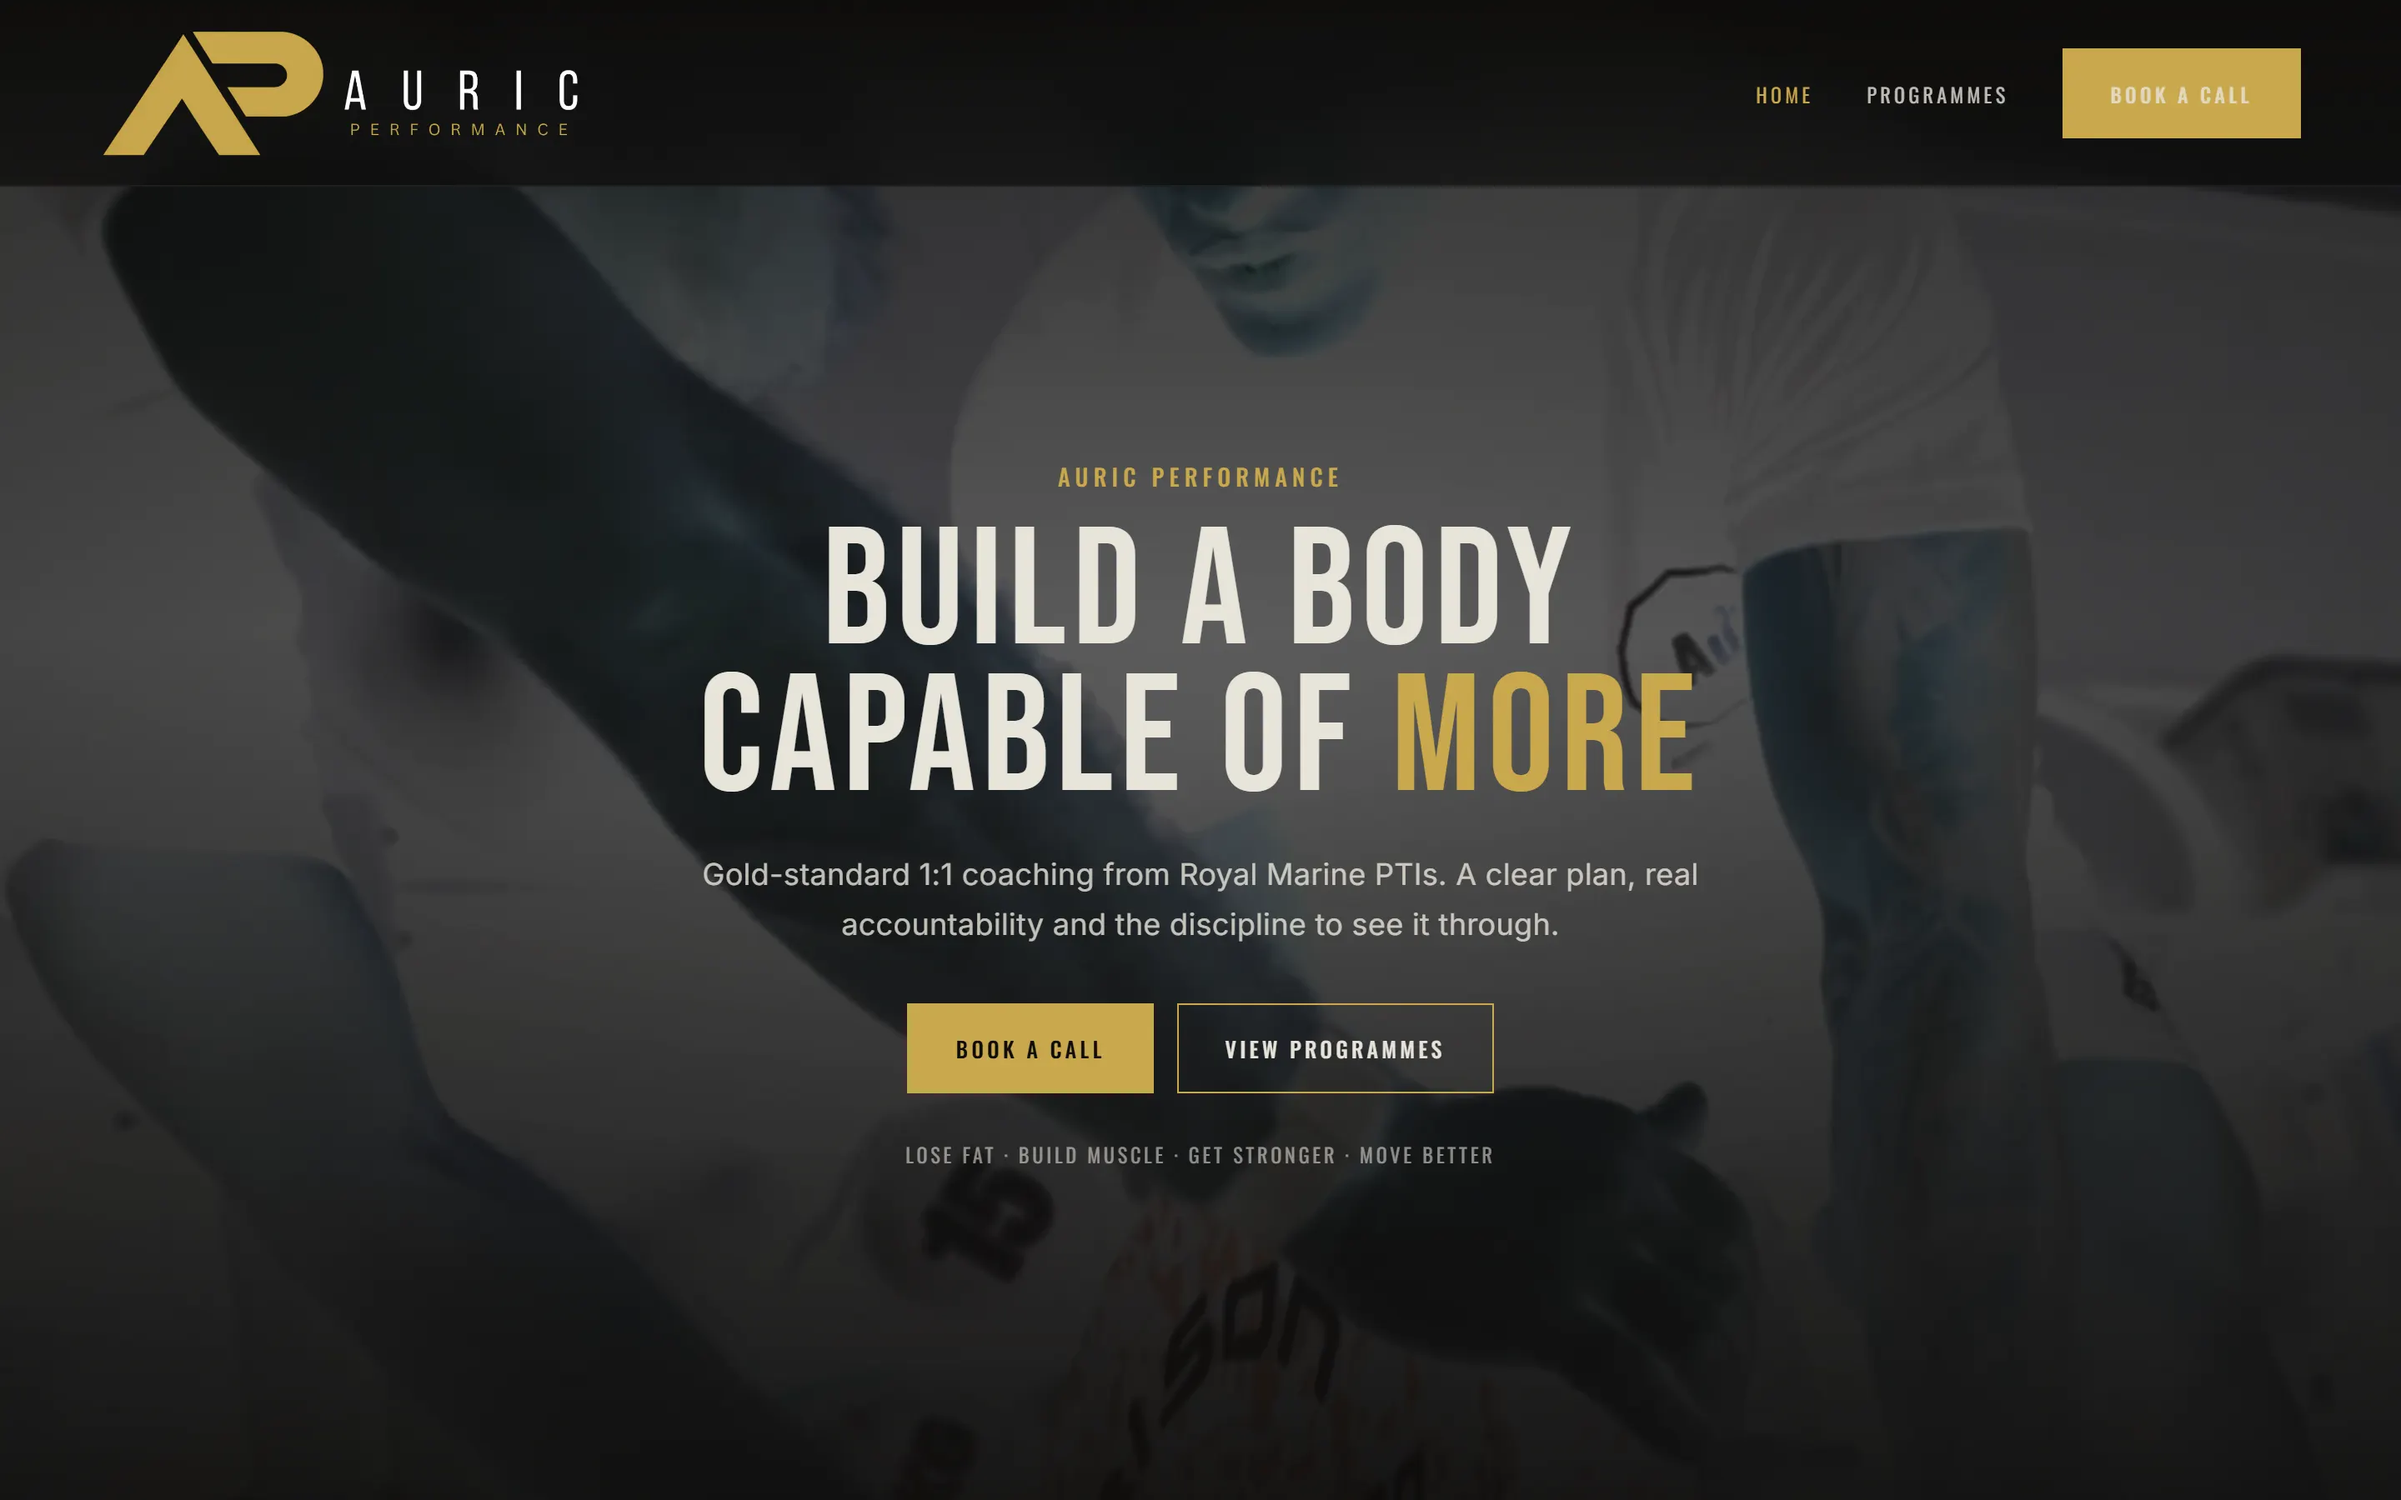
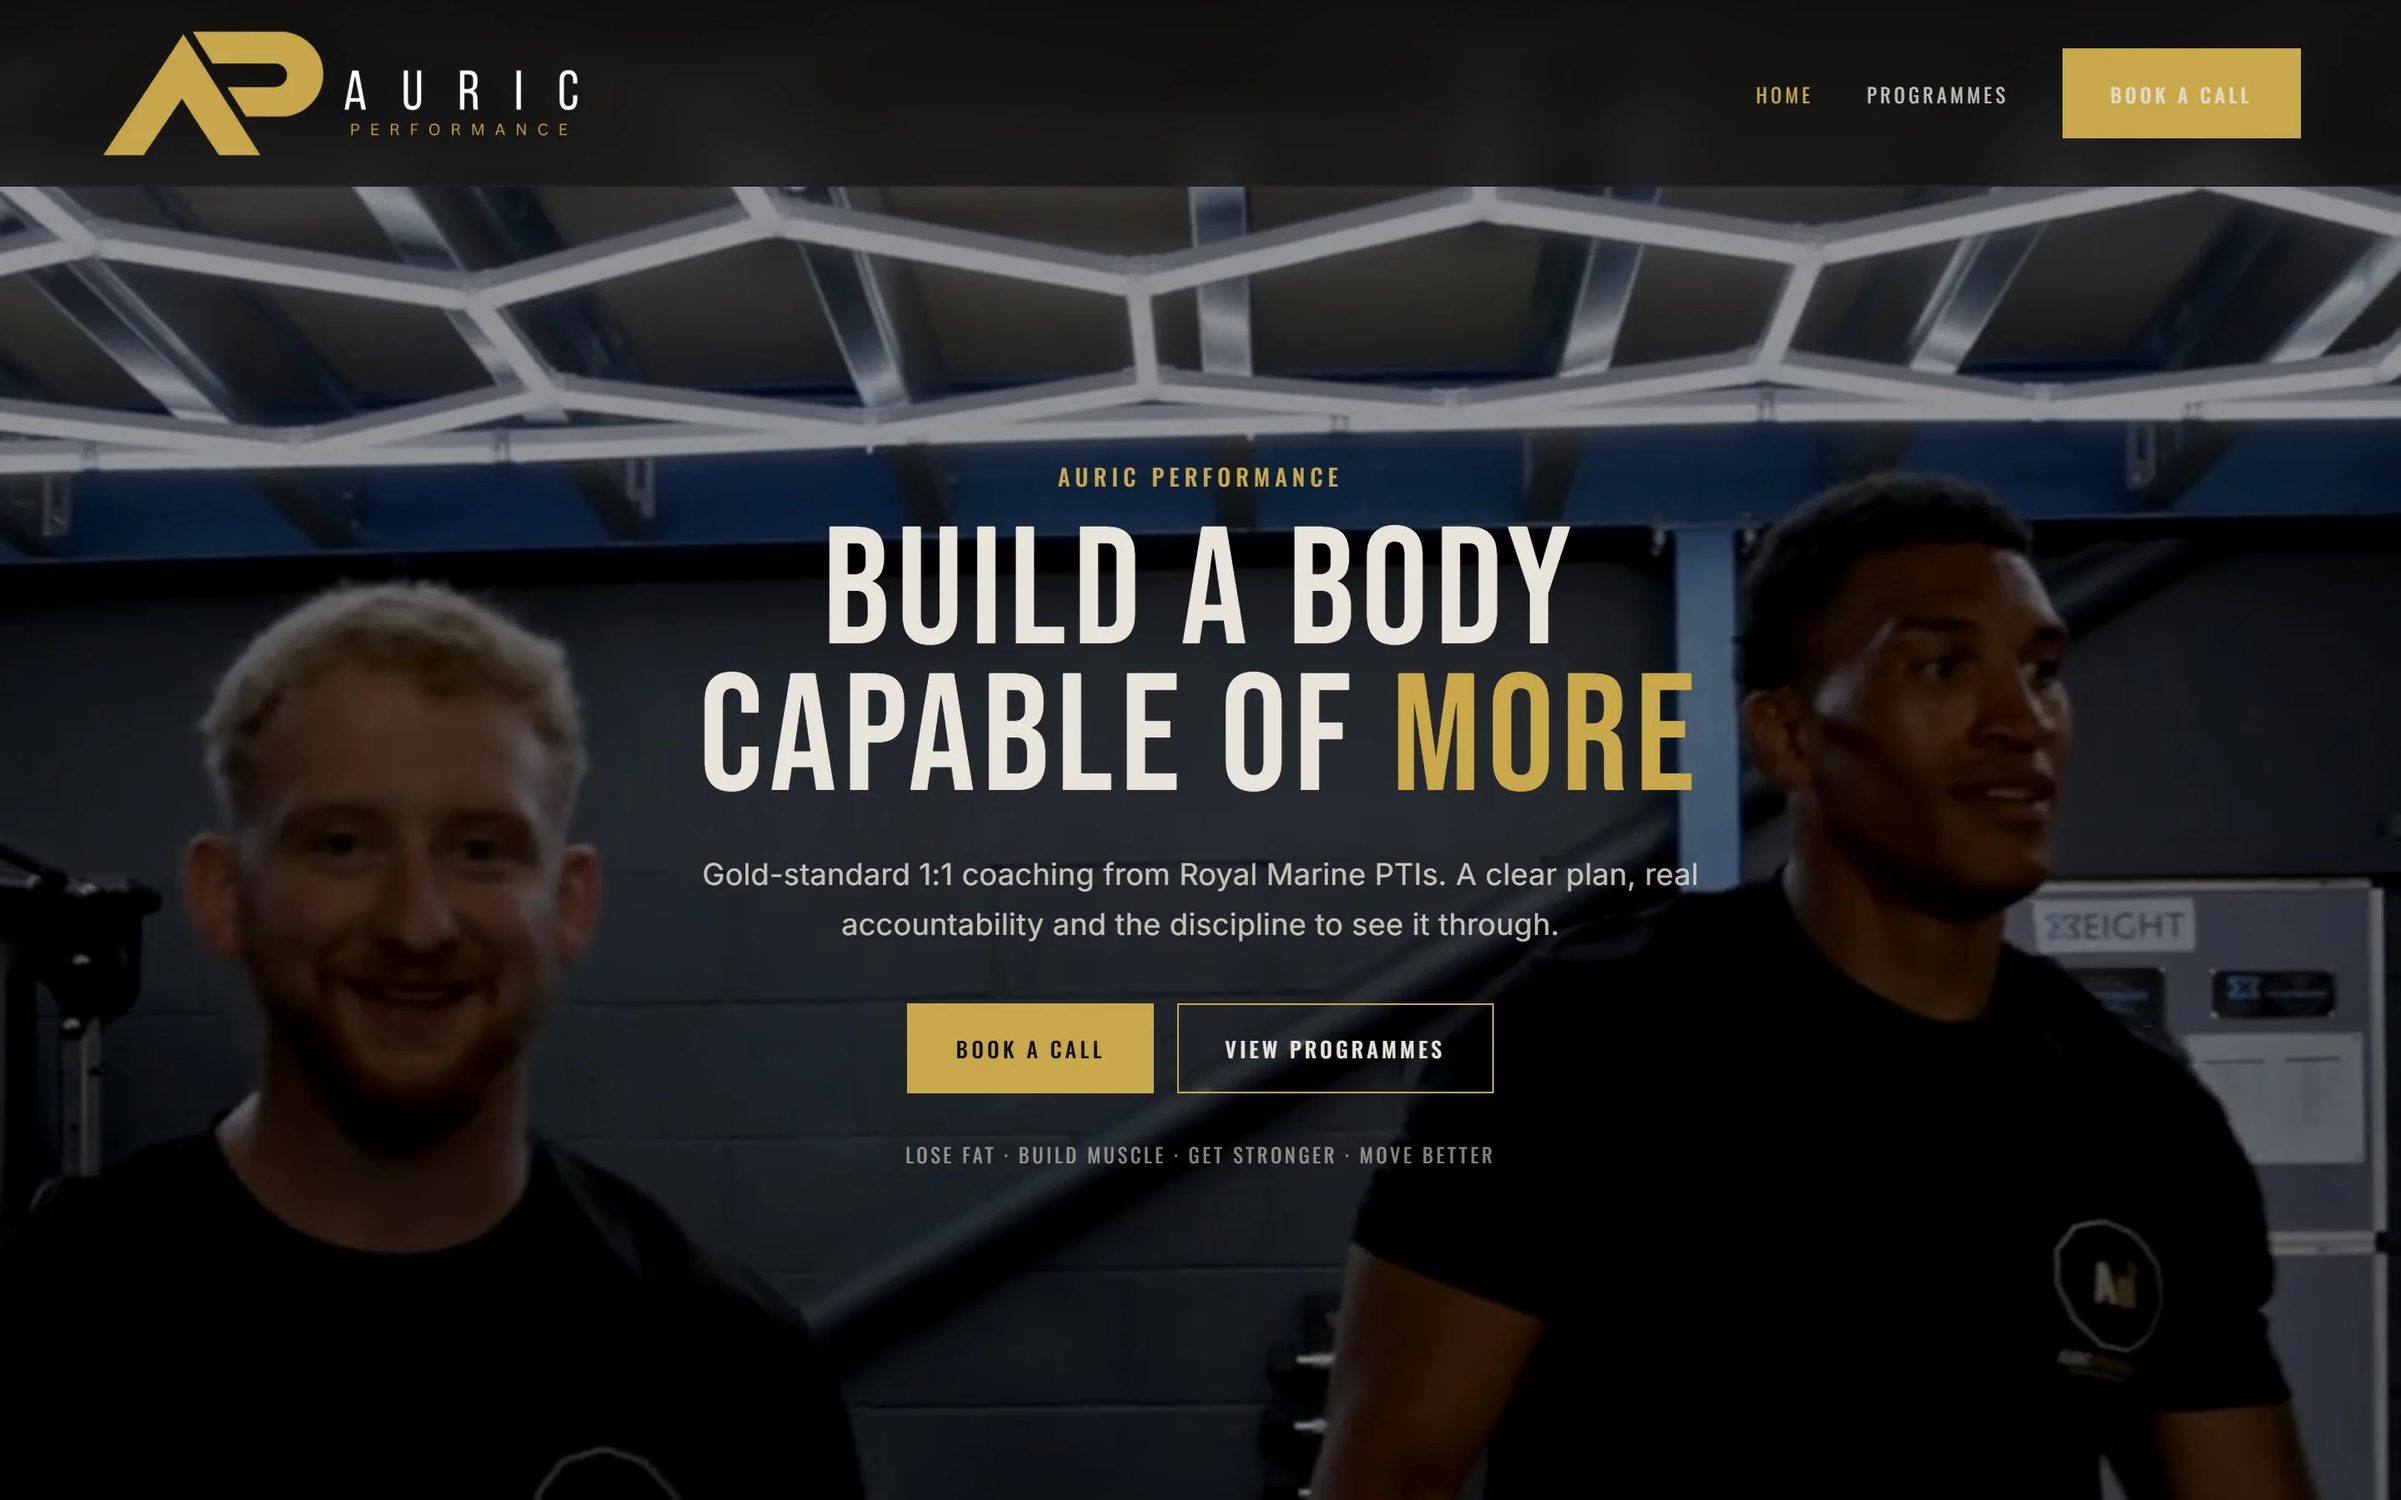
Replace the Auric hero with a single clear frame.

diff --git a/content/pages/auric-performance-case-study.html b/content/pages/auric-performance-case-study.html
@@ -170,8 +170,8 @@
 
 <figure class="aur-full">
   <picture>
-    <source media="(max-width: 800px)" srcset="/media/case-studies/auric/hero-mobile.webp?v=3">
-    <img src="/media/case-studies/auric/hero.webp?v=3" alt="The Auric Performance homepage" width="2880" height="1800">
+    <source media="(max-width: 800px)" srcset="/media/case-studies/auric/hero-mobile.webp?v=4">
+    <img src="/media/case-studies/auric/hero.webp?v=4" alt="The Auric Performance homepage" width="2880" height="1800">
   </picture>
 </figure>
 
@@ -235,7 +235,7 @@
 <section class="aur-band" aria-label="The Auric Performance website">
   <div class="aur-wrap aur-trio">
     <img src="/media/case-studies/auric/three.webp?v=3" alt="The Complete Package on the Auric Performance website" width="2880" height="1800">
-    <video class="aur-scroll" autoplay muted loop playsinline preload="metadata" poster="/media/case-studies/auric/hero.webp?v=3" aria-label="The Auric Performance website scrolling from the homepage">
+    <video class="aur-scroll" autoplay muted loop playsinline preload="metadata" poster="/media/case-studies/auric/hero.webp?v=4" aria-label="The Auric Performance website scrolling from the homepage">
       <source src="/media/case-studies/auric/scroll.mp4?v=3" type="video/mp4">
       <track kind="captions" label="English captions" src="/media/case-studies/auric/scroll.vtt" srclang="en">
     </video>
